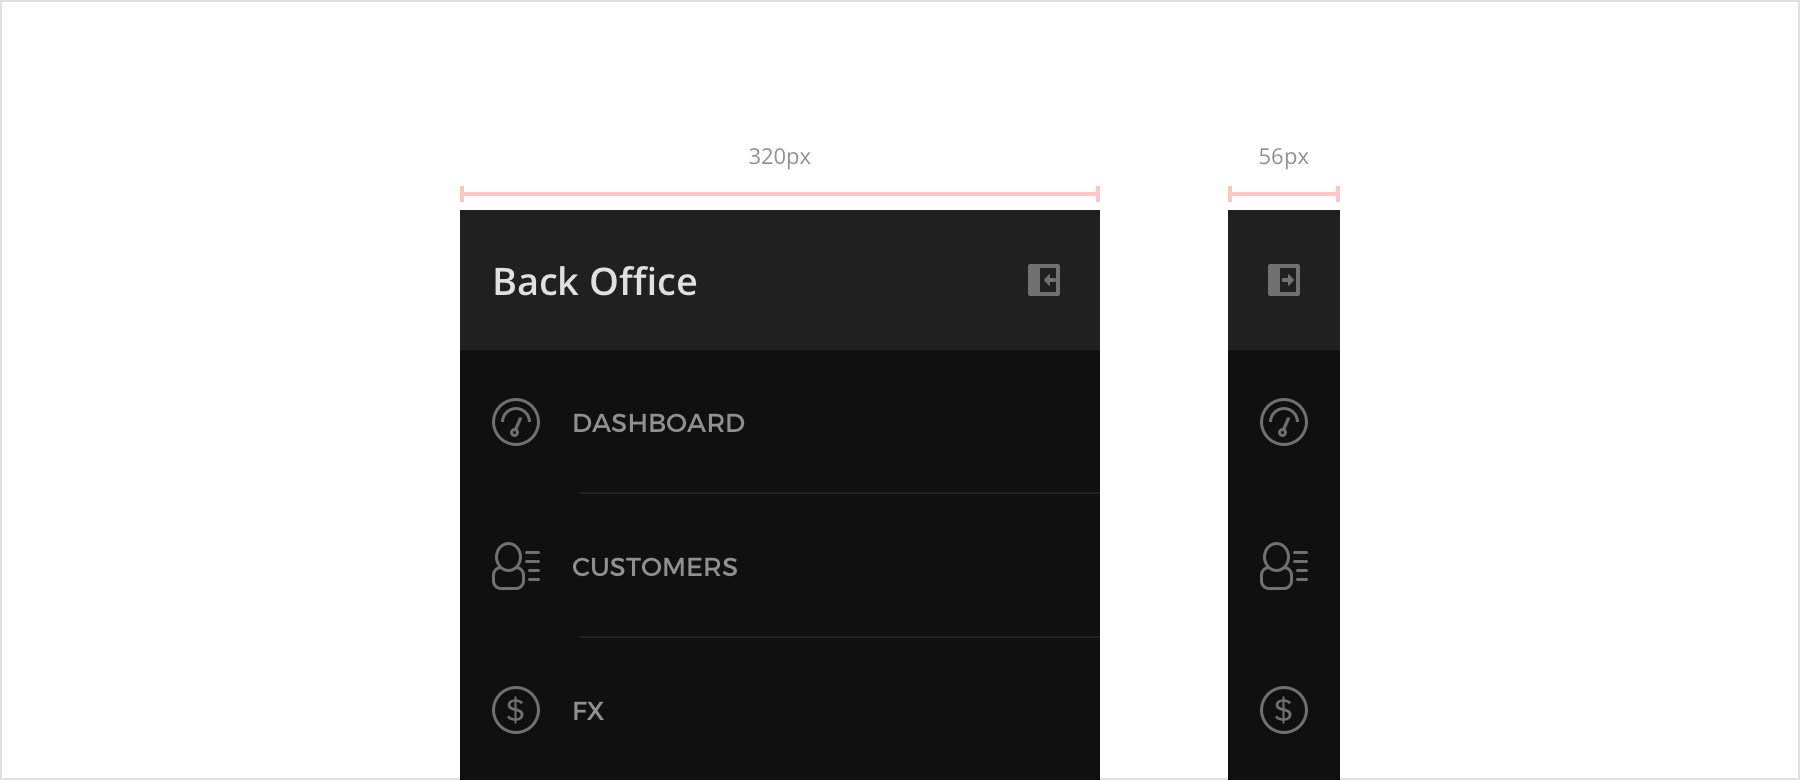
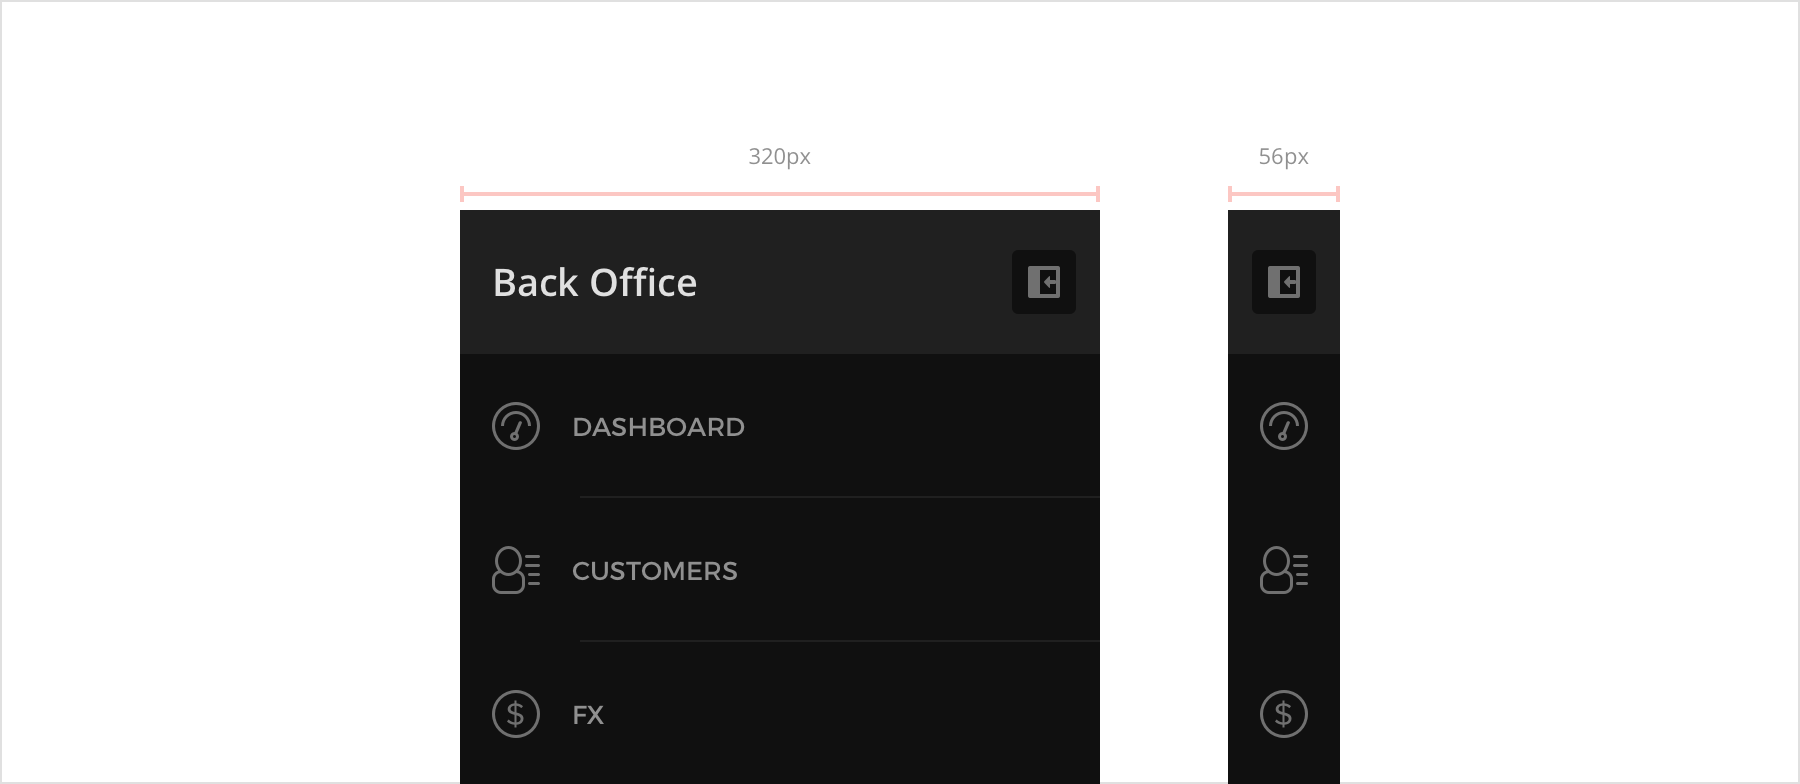
Updates sidebar.md
Auto commit by GitBook Editor

diff --git a/sidebar.md b/sidebar.md
@@ -14,5 +14,31 @@ The sidebar is the main navigation menu that contains the links to all pages in 
 
 ![](/assets/organisms/sidebar-sizing.png)
 
+```
+/* Sidebar */
+width: 320px;
+
+/* Sidebar minimized */
+width: 56px;
+```
+
+---
+
+### Header
+
+The header contains only the logo and the icon to minimize/maximize the sidebar.
+
+![](/assets/organisms/sidebar-header-spacing.png)
+
+```
+/* Header */
+padding: 0 12px 0 24px;
+
+/* Header minimized */
+padding: 0 12px 0 12px;
+
+
+```
+
 
 
